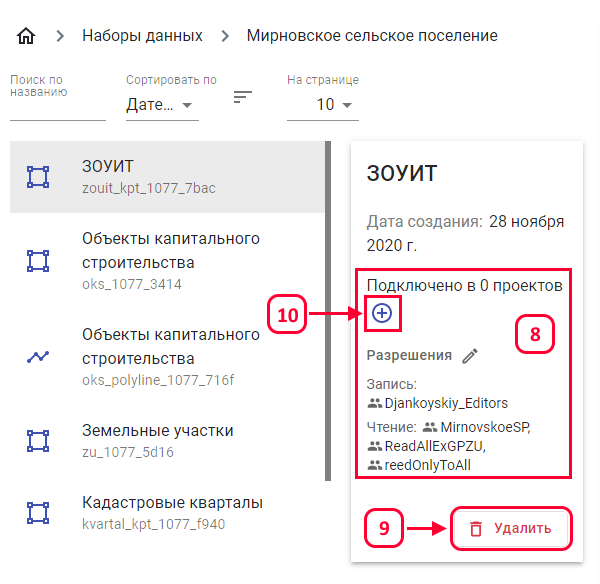
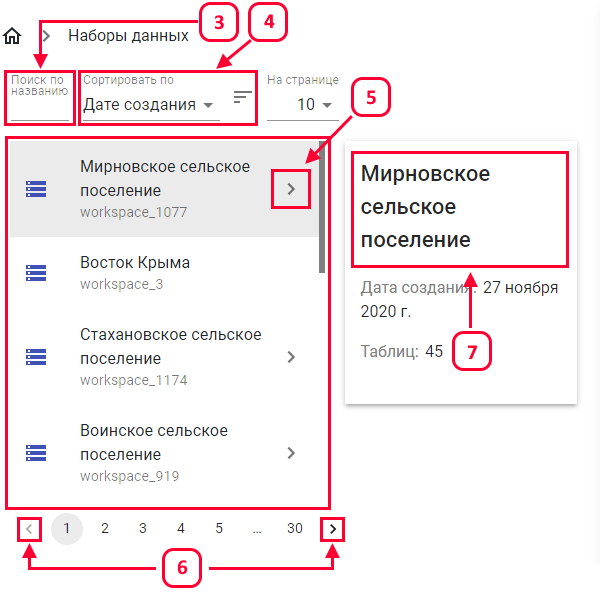
Merged PR 743: feat(ui: explorer) add dataset create btn
Related work items: #3627, #3673, #3674

diff --git a/portal-ui/src/app/components/CreateDatasetElement/CreateDatasetElement.tsx b/portal-ui/src/app/components/CreateDatasetElement/CreateDatasetElement.tsx
@@ -1,0 +1,138 @@
+import React, { Component } from 'react';
+import { observer } from 'mobx-react';
+import { action, observable } from 'mobx';
+import { boundMethod } from 'autobind-decorator';
+import { AxiosError } from 'axios';
+
+import {
+  FieldErrors,
+  getDefaultValues,
+  normalizeServerErrors,
+  validateFormValue
+} from '../../services/crg/formValidation.service';
+import { communicationService } from '../../services/communication.service';
+import { FieldType, PropertySchema } from '../../services/crg/schema.models';
+import { createDataset, NewDataset } from '../../services/data.service';
+
+import { ExplorerStore } from '../Explorer/Explorer.store';
+
+import { CreateDatasetElementDialog } from './Dialog/CreateDatasetElement-Dialog';
+import { CreateDatasetElementButton } from './Button/CreateDatasetElement-Button';
+
+export interface CreateDatasetElementProps {
+  store: ExplorerStore;
+  path?: string;
+}
+
+@observer
+export class CreateDatasetElement extends Component<CreateDatasetElementProps> {
+  @observable private dialogOpen = false;
+  @observable private dialogLoading = false;
+  @observable private formErrors?: FieldErrors[];
+  @observable private serverFormErrors?: FieldErrors[];
+  @observable private formValue: Partial<NewDataset> = {};
+  @observable private fields: PropertySchema<NewDataset>[] = [
+    {
+      fieldType: FieldType.STRING,
+      title: 'Название набора данных',
+      name: 'title',
+      required: true
+    },
+    {
+      fieldType: FieldType.STRING,
+      title: 'Описание набора данных',
+      name: 'details'
+    }
+  ];
+
+  render() {
+    return (
+      <>
+        <CreateDatasetElementButton onClick={this.openDialog} />
+
+        <CreateDatasetElementDialog
+          open={this.dialogOpen}
+          formValue={this.formValue}
+          loading={this.dialogLoading}
+          fields={this.fields}
+          onClose={this.closeDialog}
+          onCreate={this.create}
+          onChange={this.setFormValue}
+          formErrors={[...(this.serverFormErrors || []), ...(this.formErrors || [])]}
+          onFieldChange={this.formFieldChanged}
+          onFieldNeedValidate={this.formFieldValidateHandler}
+        />
+      </>
+    );
+  }
+
+  @action.bound
+  private openDialog() {
+    this.dialogOpen = true;
+  }
+
+  @action.bound
+  private closeDialog() {
+    this.dialogOpen = false;
+    this.setDialogLoading(false);
+    this.setErrors([]);
+    this.setServerErrors([]);
+    this.setFormValue(getDefaultValues(this.fields));
+  }
+
+  @action
+  private setDialogLoading(loading: boolean) {
+    this.dialogLoading = loading;
+  }
+
+  @boundMethod
+  private async create(formValue: NewDataset) {
+    if (this.formErrors?.length) {
+      return;
+    }
+
+    try {
+      await createDataset(formValue.title, formValue.details);
+
+      communicationService.libraryItemsUpdated.emit();
+      this.closeDialog();
+    } catch (error) {
+      const err = error as AxiosError<{ errors?: FieldErrors[] }>;
+
+      if (err?.response?.data?.errors) {
+        this.setServerErrors(normalizeServerErrors(err.response.data.errors));
+      }
+    }
+  }
+
+  @boundMethod
+  private formFieldChanged(value: unknown, fieldName: string) {
+    this.filterFieldErrors(fieldName);
+  }
+
+  @boundMethod
+  private formFieldValidateHandler(value: unknown, fieldName: string) {
+    this.filterFieldErrors(fieldName);
+    this.setErrors(validateFormValue(this.formValue, this.fields));
+  }
+
+  @action
+  private setErrors(errors: FieldErrors[] = []) {
+    this.formErrors = errors.filter(({ messages }) => messages?.length);
+  }
+
+  @action
+  private setServerErrors(errors: FieldErrors[]) {
+    this.serverFormErrors = errors;
+  }
+
+  @action.bound
+  private setFormValue(formValue: Partial<NewDataset>) {
+    this.formValue = formValue;
+  }
+
+  private filterFieldErrors(fieldName: string) {
+    this.setErrors(this.formErrors?.filter(({ field }) => field !== fieldName));
+    this.setServerErrors(this.serverFormErrors?.filter(({ field }) => field !== fieldName));
+  }
+}

diff --git a/portal-ui/src/app/components/CreateDatasetElement/Dialog/CreateDatasetElement-Dialog.tsx b/portal-ui/src/app/components/CreateDatasetElement/Dialog/CreateDatasetElement-Dialog.tsx
@@ -1,0 +1,64 @@
+import React, { FC } from 'react';
+import { observer } from 'mobx-react';
+import { Dialog, DialogActions, DialogContent, DialogTitle } from '@mui/material';
+
+import { PropertySchema } from '../../../services/crg/schema.models';
+import { NewDataset } from '../../../services/data.service';
+import { FieldErrors } from '../../../services/crg/formValidation.service';
+
+import { Loading } from '../../Loading/Loading';
+import { Button } from '../../Button/Button';
+import { Form } from '../../Form/Form';
+
+export interface CreateDatasetElementDialogProps {
+  fields?: PropertySchema[];
+  open: boolean;
+  loading: boolean;
+  formValue: Partial<NewDataset>;
+  formErrors?: FieldErrors[];
+  onClose(): void;
+  onCreate(formValue: Partial<NewDataset>): void;
+  onChange(formValue: Partial<NewDataset>): void;
+  onFieldChange: (value: Partial<NewDataset>[keyof Partial<NewDataset>], propertyName: string) => void;
+  onFieldNeedValidate: (value: Partial<NewDataset>[keyof Partial<NewDataset>], propertyName: string) => void;
+}
+
+export const CreateDatasetElementDialog: FC<CreateDatasetElementDialogProps> = observer(
+  ({
+    open,
+    loading,
+    fields,
+    formValue,
+    formErrors,
+    onFieldChange,
+    onFieldNeedValidate,
+    onCreate,
+    onChange,
+    onClose
+  }) => (
+    <>
+      <Dialog maxWidth={'md'} open={open} onClose={onClose}>
+        <DialogTitle>Создание нового набора данных</DialogTitle>
+        <DialogContent>
+          <Form<Partial<NewDataset>>
+            id='createDatasetForm'
+            fields={fields}
+            value={formValue}
+            onFormChange={onChange}
+            onFormSubmit={onCreate}
+            onFieldChange={onFieldChange}
+            onFieldNeedValidate={onFieldNeedValidate}
+            errors={formErrors}
+          />
+          <Loading visible={loading} />
+        </DialogContent>
+        <DialogActions>
+          <Button form='createDatasetForm' type='submit' color='primary'>
+            Создать
+          </Button>
+          <Button onClick={onClose}>Отмена</Button>
+        </DialogActions>
+      </Dialog>
+    </>
+  )
+);

diff --git a/portal-ui/src/assets/help/map/dataManagement/01dataSets.html b/portal-ui/src/assets/help/map/dataManagement/01dataSets.html
@@ -4,17 +4,21 @@
 </p>
 <center><img src="01dataSets_1.png" alt=""></center>
 <p>
+  Для создания набора данных необходимо ЛКМ нажать на(1) ввести информауию по набору данных, сохранить.
+</p>
+<center><img src="01dataSets_2.png" alt=""></center>
+<p>
   В разделе «Наборы данных» представлен список всех наборов данных. Для удобства поиска и сортировки можно
   воспользоваться инструментами «Поиск по названию» (3) и «Сортировка» (4). Для того, чтобы перейти в требуемый набор
   данных, нужно нажать на стрелочку (5). Перелистывание можно осуществлять с помощью стрелок вправо и влево (6). В
   правом верхнем углу отображается название выбранного набора данных (7).
 </p>
-<center><img src="01dataSets_2.png" alt=""></center>
+<center><img src="01dataSets_3.png" alt=""></center>
 <p>
   В правой панели доступны разрешения для слоя (8). Для удаления слоя из набора данных, требуется нажать кнопку
   «Удалить» (9). Для подключения слоя в проект, требуется нажать кнопку «Подключения в проект» (10), в появившимся окне,
   следует выбрать проект (11) и нажать кнопку «Подключить» (12).
 </p>
-<center><img src="01dataSets_3.png" alt=""></center>
 <center><img src="01dataSets_4.png" alt=""></center>
+<center><img src="01dataSets_5.png" alt=""></center>
 <p>*Страница “Управление данными” доступна только для администратора.</p>

diff --git a/portal-ui/src/app/components/Explorer/Adapter/_type/Explorer-Adapter_type_datasetRoot.tsx b/portal-ui/src/app/components/Explorer/Adapter/_type/Explorer-Adapter_type_datasetRoot.tsx
@@ -4,8 +4,10 @@ import { Database } from '../../../Icons/Database';
 import { PageOptions, SortDir } from '../../../../services/models';
 import { Dataset, getDatasets } from '../../../../services/data.service';
 import { staticImplements } from '../../../../services/util/staticImplements';
+import { CreateDatasetElement } from '../../../CreateDatasetElement/CreateDatasetElement';
 
 import { Adapter, ExplorerItemData, ExplorerItemType, SortItem } from '../../Explorer.models';
+import { ExplorerStore } from '../../Explorer.store';
 
 declare module '../../Explorer.models' {
   export interface ExplorerItemPayloads {
@@ -79,5 +81,9 @@ export class ExplorerAdapterTypeDatasetRoot {
 
   static getChildrenFilterLabel(): string {
     return 'Поиск по названию';
+  }
+
+  static getToolbarActions(item: ExplorerItemData<Dataset>, store: ExplorerStore): ReactNode {
+    return <CreateDatasetElement store={store} />;
   }
 }

diff --git a/portal-ui/src/app/components/CreateLibraryElement/FolderButton/CreateLibraryElement-FolderButton.tsx b/portal-ui/src/app/components/CreateLibraryElement/FolderButton/CreateLibraryElement-FolderButton.tsx
@@ -1,6 +1,6 @@
 import React, { Component } from 'react';
 import { cn } from '@bem-react/classname';
-import { IconButton } from '@mui/material';
+import { IconButton, Tooltip } from '@mui/material';
 import { CreateNewFolderOutlined } from '@mui/icons-material';
 import { boundMethod } from 'autobind-decorator';
 
@@ -14,9 +14,11 @@ interface CreateLibraryElementFolderButtonProps {
 export class CreateLibraryElementFolderButton extends Component<CreateLibraryElementFolderButtonProps> {
   render() {
     return (
-      <IconButton className={cnCreateLibraryElementFolderButton()} onClick={this.clickHandler}>
-        <CreateNewFolderOutlined />
-      </IconButton>
+      <Tooltip title='Создание нового элемента'>
+        <IconButton className={cnCreateLibraryElementFolderButton()} onClick={this.clickHandler}>
+          <CreateNewFolderOutlined />
+        </IconButton>
+      </Tooltip>
     );
   }
 

diff --git a/portal-ui/src/app/components/CreateDatasetElement/Button/CreateDatasetElement-Button.tsx b/portal-ui/src/app/components/CreateDatasetElement/Button/CreateDatasetElement-Button.tsx
@@ -1,0 +1,19 @@
+import React, { Component } from 'react';
+import { IconButton, Tooltip } from '@mui/material';
+import { PlaylistAdd } from '@mui/icons-material';
+
+interface CreateDatasetElementButtonProps {
+  onClick: () => void;
+}
+
+export class CreateDatasetElementButton extends Component<CreateDatasetElementButtonProps> {
+  render() {
+    return (
+      <Tooltip title='Создать набор данных'>
+        <IconButton onClick={this.props.onClick}>
+          <PlaylistAdd />
+        </IconButton>
+      </Tooltip>
+    );
+  }
+}

diff --git a/portal-ui/src/app/services/data.service.ts b/portal-ui/src/app/services/data.service.ts
@@ -27,6 +27,8 @@ export interface Dataset extends DataEntity {
   role: Role;
 }
 
+export type NewDataset = Pick<Dataset, 'title' | 'details'>;
+
 export interface DataTable extends DataEntity {
   type: DataEntityType.TABLE;
   crs: string;
